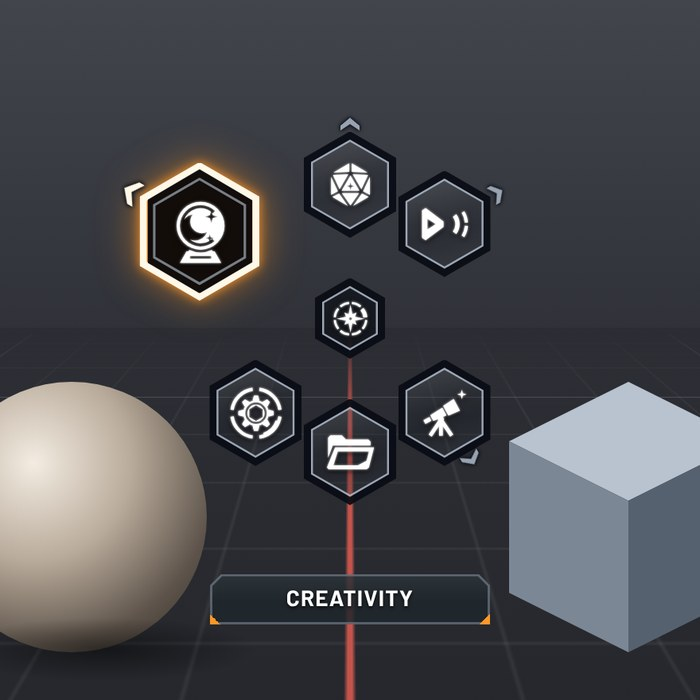
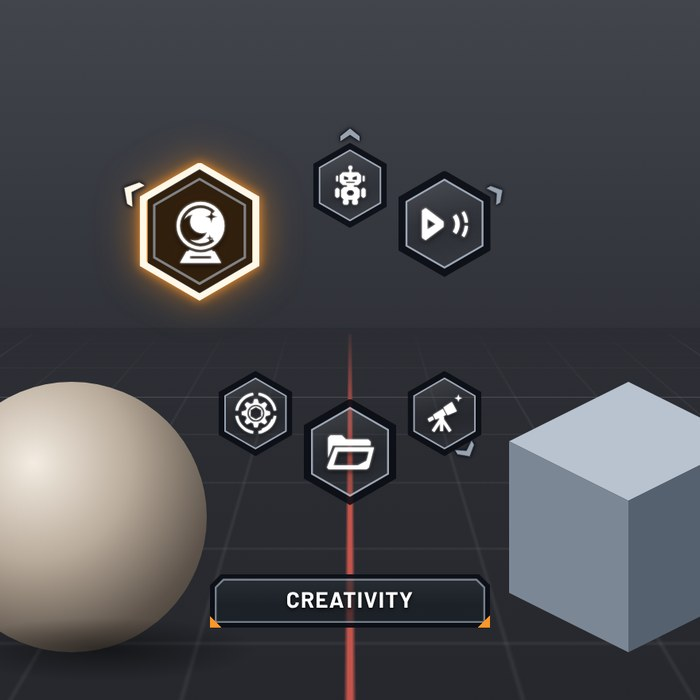
Gunmetal Arsenal: closer to the reference wheel
See-through hub-less middle, honeycomb slot sizes for even menus,
see-through selected face and name plate, a framed plate with the
quick-select key shown as a white button, warmer Gold Rim preset, and
a new flat robot icon (icon-themes/amethyst-emblems/robot.svg) for the
Games slot. Amethyst Arsenal and the existing emblems are unchanged.

Claude-Session: https://claude.ai/code/session_017KpJ4pfL3JfLqtKXUkaQyd

diff --git a/themes/gunmetal-arsenal/theme.css b/themes/gunmetal-arsenal/theme.css
@@ -10,8 +10,9 @@
 
    WHAT IT LOOKS LIKE
 
-   - The items sit in a tight ring of pointy-top hex slots around a small hub, like the
-     weapon wheel, which leaves the middle of the screen free.
+   - The items sit in a tight ring of pointy-top hex slots with an empty middle, like the
+     weapon wheel. In menus with an even number of items every second slot is smaller,
+     which gives the game's honeycomb look.
    - Each slot has a thick dark frame, a thin steel line and a face of clear glass.
    - The selected slot pops out with a cream frame, a black face and an orange glow.
    - The selected item's name shows on a plate under the ring, like the weapon info box.
@@ -73,6 +74,16 @@
   --aura-near: 2.5px;
   --aura-far: 9px;
 
+  /* The hub in the middle. The game's wheel has nothing in the middle, so the hub is
+     hidden (0). Set it to 1 to show the menu's own icon there. The middle still works
+     as usual either way: point there to go back or cancel. */
+  --hub-opacity: 0;
+
+  /* Honeycomb look: in menus with an even number of items, every second slot is drawn
+     this much smaller, like the back slots of the game's wheel. Set it to 1 for a ring of
+     equal slots. */
+  --back-scale: 0.8;
+
   /* Gap between the ring and the name plate, and the plate's look. */
   --plate-gap: 8px;
   --plate-corner: 7px;
@@ -87,6 +98,7 @@
      Only position, size and fade are animated. Glow filters and the hex outlines snap
      into place, so a hover never has to redraw the blur on every frame. */
   --menu-transition: transform 200ms cubic-bezier(0.775, 1.325, 0.535, 1),
+    scale 200ms cubic-bezier(0.775, 1.325, 0.535, 1),
     top 200ms cubic-bezier(0.775, 1.325, 0.535, 1), left 200ms cubic-bezier(0.775, 1.325, 0.535, 1),
     width 200ms cubic-bezier(0.775, 1.325, 0.535, 1), height 200ms cubic-bezier(0.775, 1.325, 0.535, 1),
     opacity 200ms ease;
@@ -239,9 +251,25 @@
     opacity: 1;
   }
 
+  /* The hub, hidden by default (see --hub-opacity). */
+  &.active>.icon-layer {
+    opacity: var(--hub-opacity);
+  }
+
   /* The slot that leads back to the previous menu reads quieter than the choices. */
   &.parent:not(.hovered)>.icon-layer {
     opacity: var(--parent-opacity);
+  }
+
+  /* Honeycomb: when the open menu has an even number of items, every second slot is
+     smaller. --slot-scale also moves the submenu marker and the key chip to match.
+     The selected slot always shows at full size. */
+  &.active:has(>.child:nth-child(1 of .child):nth-last-child(even of .child))>.child:nth-child(even of .child):not(.hovered) {
+    --slot-scale: var(--back-scale);
+  }
+
+  &.child>.icon-layer {
+    scale: var(--slot-scale, 1);
   }
 
   /* Grandchildren stay invisible, like the game's wheel, which shows one ring at a
@@ -304,7 +332,7 @@
 
   &.child>.quick-key {
     /* Distance from the slot's middle to the middle of the chip. */
-    --key-distance: 27px;
+    --key-distance: calc(27px * var(--slot-scale, 1));
 
     position: absolute;
     display: flex;
@@ -373,7 +401,7 @@
      that corner or edge, plus a small gap. Sizes are before the hover scale. */
   --mark-gap: 4.5px;
   --mark-angle: round(var(--angle, 0deg), 30deg);
-  --mark-distance: calc(var(--child-w) / 2 / cos(mod(var(--mark-angle), 60deg) - 30deg) + var(--mark-gap));
+  --mark-distance: calc(var(--child-w) * var(--slot-scale, 1) / 2 / cos(mod(var(--mark-angle), 60deg) - 30deg) + var(--mark-gap));
 
   position: absolute;
   display: block;
@@ -413,7 +441,7 @@
 
   top: var(--plate-top) !important;
   height: auto !important;
-  padding: 7px 12px 8px;
+  padding: 8px 12px 9px;
   color: var(--text-color);
   transition: var(--fade-transition);
   font-family: 'Bahnschrift', 'Segoe UI Variable Display', 'Segoe UI', system-ui, sans-serif;
@@ -436,23 +464,23 @@
   }
 
   .text {
-    position: relative;
-    z-index: 1;
+    position: static;
     height: auto;
   }
 
   p {
+    position: relative;
+    z-index: 2;
     margin: 0 !important;
   }
 
-  /* A thin steel outline that follows the cut corners. */
-  &::before {
-    --o: 0px;
-    --i: 1.5px;
+  /* The plate's frame: a dark outer band and a thin steel line inside it, like the slots.
+     Both follow the cut corners. */
+  &::before,
+  &::after {
     content: '';
     position: absolute;
     inset: 0;
-    background: color-mix(in srgb, var(--line-color) 45%, transparent);
     clip-path: polygon(evenodd,
         calc(var(--plate-corner) + var(--o) * 0.414) var(--o),
         calc(100% - var(--plate-corner) - var(--o) * 0.414) var(--o),
@@ -470,14 +498,40 @@
         calc(var(--plate-corner) + var(--i) * 0.414) var(--i));
   }
 
-  /* Two small orange corner marks on the bottom edge. */
+  &::before {
+    --o: 0px;
+    --i: 3px;
+    background: var(--frame-color);
+  }
+
   &::after {
+    --o: 3px;
+    --i: 4.2px;
+    background: color-mix(in srgb, var(--line-color) 70%, transparent);
+  }
+
+  /* Two small orange corner marks on the bottom edge, drawn above the frame. The text box
+     is left unpositioned so this layer covers the whole plate. */
+  .text::after {
     content: '';
     position: absolute;
     inset: 0;
+    z-index: 3;
     background:
-      linear-gradient(to top right, var(--plate-accent-color) 50%, transparent 50%) left bottom / 7px 7px no-repeat,
-      linear-gradient(to top left, var(--plate-accent-color) 50%, transparent 50%) right bottom / 7px 7px no-repeat;
+      linear-gradient(to top right, var(--plate-accent-color) 50%, transparent 50%) left bottom / 8px 8px no-repeat,
+      linear-gradient(to top left, var(--plate-accent-color) 50%, transparent 50%) right bottom / 8px 8px no-repeat;
+  }
+
+  /* With "Draw quick-select key" on, Kando marks the key's letter in the name. It shows
+     as a small white button, like the game's "R1" prompt. */
+  u {
+    text-decoration: none;
+    padding: 0 3px;
+    margin: 0 1px;
+    border-radius: 3px;
+    background: var(--badge-color);
+    color: var(--badge-text-color);
+    text-shadow: none;
   }
 }
 
@@ -546,7 +600,8 @@
 .no-transitions .menu-node *::before,
 .no-transitions .menu-node *::after,
 .no-transitions .center-text::before,
-.no-transitions .center-text::after {
+.no-transitions .center-text::after,
+.no-transitions .center-text .text::after {
   transition: none !important;
   animation: none !important;
 }

diff --git a/themes/gunmetal-arsenal/README.md b/themes/gunmetal-arsenal/README.md
@@ -9,14 +9,16 @@ This one stays close to the weapon wheel from *Ratchet & Clank Future: A Crack i
 
 ## What it looks like
 
-- The items sit in a tight ring around a small hub, so the middle of the screen stays free, like the wheel in the game.
-- Every slot has a thick dark frame, a thin steel line and a face of clear glass with a faint sheen, so the app behind the menu shows through almost untouched.
-- The selected slot pops out with a cream frame, a black face and a tight orange glow.
-- The selected item's name shows in bold capitals on a plate under the ring, with two small orange corner marks. Long names wrap to a second line and the plate grows with them.
+- The items sit in a tight ring with nothing in the middle, like the wheel in the game. The middle still works as usual: point there to go back or cancel. To show the menu's icon there, set `--hub-opacity` to 1 in `theme.css`.
+- In menus with an even number of items, every second slot is a little smaller, which gives the game's honeycomb look. Set `--back-scale` to 1 for equal slots.
+- Every slot has a dark frame, a thin steel line and a face of clear glass with a faint sheen, so the app behind the menu shows through. The selected slot and the name plate are see-through too.
+- The selected slot pops out at full size with a cream frame, a dark face and a tight orange glow.
+- The selected item's name shows in bold capitals on a plate under the ring, with a dark frame, a steel line and two small orange corner marks. Long names wrap to a second line and the plate grows with them.
 - When a submenu opens upward, the plate moves above the ring, so it never covers the way back.
 - Black logos like Steam or Unreal Engine get a thin light outline, so they stay visible on the clear glass.
 - Items that open a submenu have a small arrowhead on their outer edge, pointing roughly the way the submenu opens.
-- With quick-select keys turned on, each slot shows its key as a small white button on its inner edge.
+- With quick-select keys turned on, each slot shows its key as a small white button on its inner edge, and the key's letter in the name turns into the same button, like the game's "R1" prompt.
+- The matching [Amethyst Emblems](../../icon-themes/) set has a robot icon (`robot.svg`) made for this theme's Games slot.
 
 ## Install
 
@@ -43,7 +45,7 @@ On Windows the plate uses Bahnschrift, a font that comes with Windows 10 and 11.
 | Name in Kando | Look |
 |---|---|
 | Default colors | Clear glass, cream frame, orange glow (the theme's own colors, not a preset file) |
-| Gold Rim | Gold frame on the selected slot instead of cream |
+| Gold Rim | Gold frame, gold glow and warm steel lines |
 | Cyan HUD | Cyan glow and blue-tinted glass |
 | Work Mode | Less see-through and a softer glow, for busy apps like 3D viewports |
 

diff --git a/README.md b/README.md
@@ -189,9 +189,9 @@ called Grid Cyan and Light Cycle. [Install it from `themes/amethyst-arsenal`.](t
 
 <p align="center"><img src="themes/gunmetal-arsenal/preview.jpg" alt="The Gunmetal Arsenal theme: a tight ring of clear glass hex slots with dark frames, the selected one with a cream frame and an orange glow, and its name on a plate under the ring" width="80%"></p>
 
-Amethyst Arsenal is my take on that wheel. Gunmetal Arsenal is the closer copy: a tight ring of
-clear glass slots with dark gunmetal frames, a cream frame and orange glow on the one you pick, and
-its name on a plate under the ring, like the weapon info box. It comes with three presets: Gold Rim,
+Amethyst Arsenal is my take on that wheel. Gunmetal Arsenal is the closer copy: a honeycomb ring of
+clear glass slots with nothing in the middle, a cream frame and orange glow on the one you pick, and
+its name on a see-through plate under the ring, like the weapon info box. It comes with three presets: Gold Rim,
 Cyan HUD and Work Mode. [Install it from `themes/gunmetal-arsenal`.](themes/gunmetal-arsenal)
 
 ### My everyday menu

diff --git a/icon-themes/README.md b/icon-themes/README.md
@@ -10,6 +10,7 @@ work in every color preset.
 | --- | --- |
 | `center.svg` | the menu's center: a north star inside a ring of eight wedges, one selected |
 | `games.svg` | games: a twenty-sided die |
+| `robot.svg` | games, the other choice: a flat robot, made for the [Gunmetal Arsenal](../themes/gunmetal-arsenal/) theme |
 | `media.svg` | video and music: a play mark with signal arcs |
 | `academic.svg` | study: a telescope pointed at a star |
 | `files.svg` | file explorer: an open folder |
